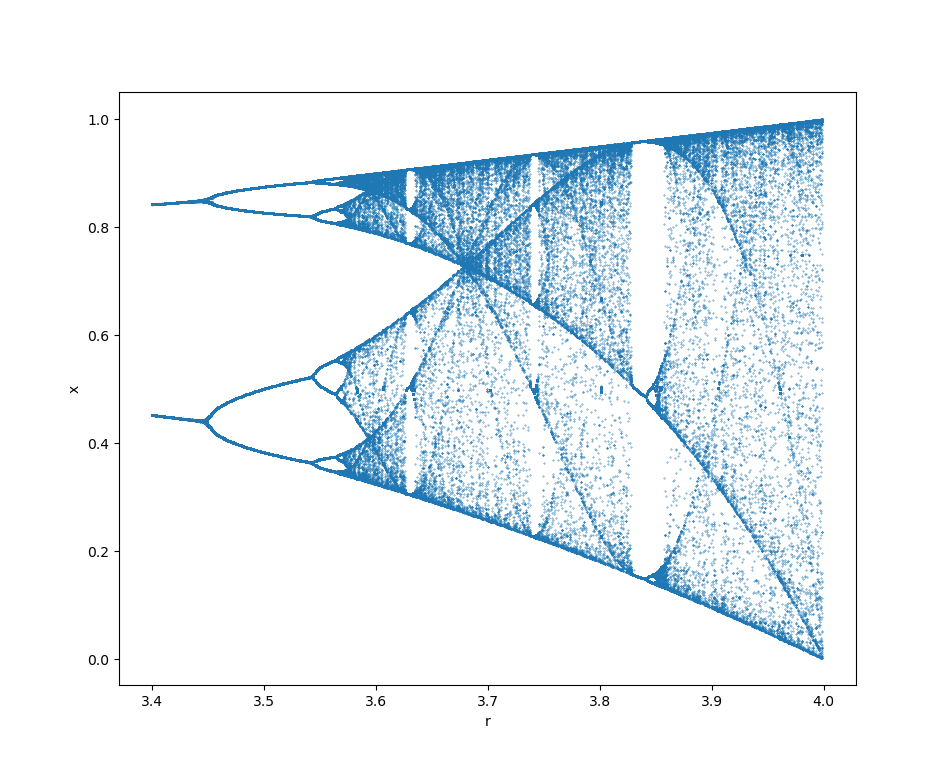
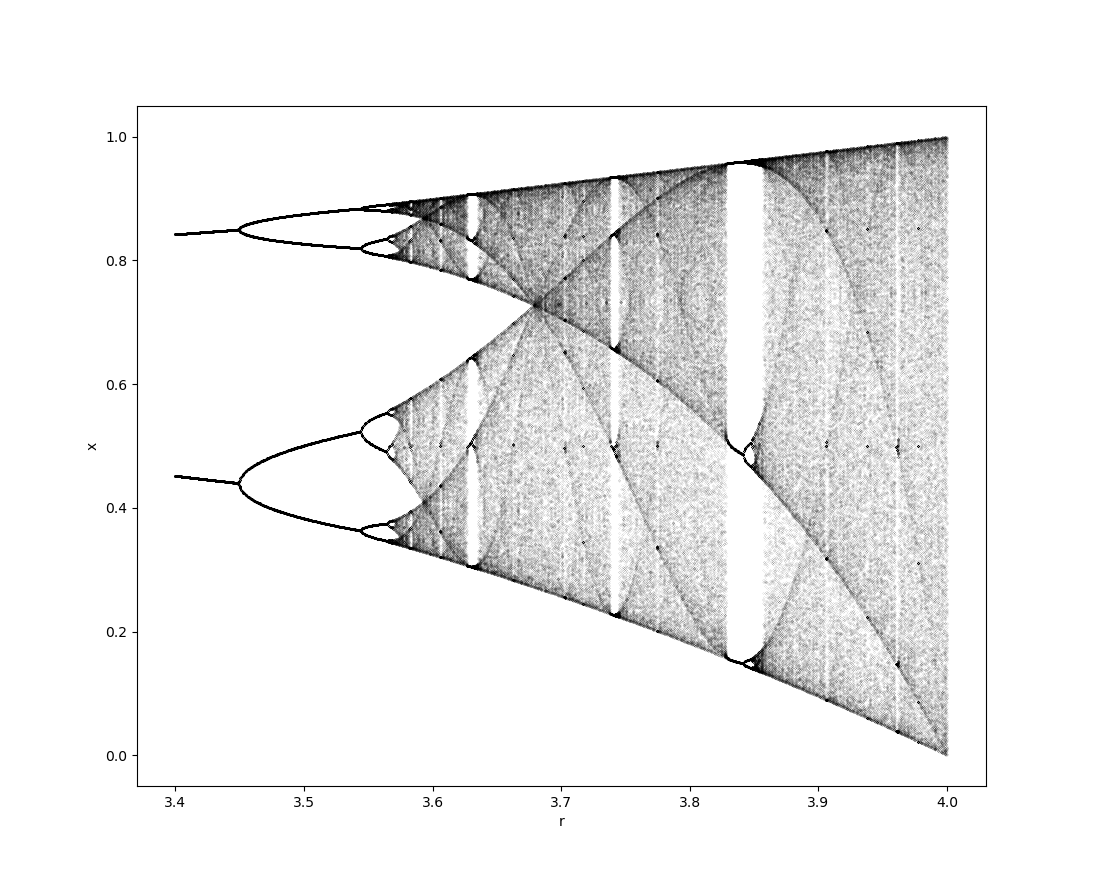
Vectorized; Deleted the unnecessary period checking step

diff --git a/main.py b/main.py
@@ -17,26 +17,15 @@ class System:
     
 if __name__ == '__main__':
     sys = System(0.2)
-    full_record = {'r':[], 'x':[]}
-    for j in tqdm(range(600)):
-        r0 = 3.4 + j*0.001
-        next_state = 0.2
-        record = [next_state]
+    r0 = np.linspace(3.4,4,1000)
+    next_state = 0.2
+    
+    for i in range(1000):
+        next_state = sys.next(next_state, r0)
         
-        for i in range(800):
-            next_state = sys.next(next_state, r0)
-            record.append(next_state)
+        if i > 700:
+            plt.plot(r0, next_state, 'k.', markersize=0.1)
 
-        # Check for periodicity within the current record
-        for k in range(len(record)): 
-            for l in range(k+1, len(record)): # Compare against all subsequent states
-                if abs(record[k] - record[l]) < 1e-4:
-                    # period = (l - k)  # Calculate period length
-                    # print(f"Periodicity detected at r={r0:.4f}: Period {period}")
-                    full_record['r'].append(r0)
-                    full_record['x'].append(record[k])
-
-    plt.scatter(full_record['r'], full_record['x'], s=0.1)
     plt.xlabel('r')
     plt.ylabel('x')
     plt.show()
